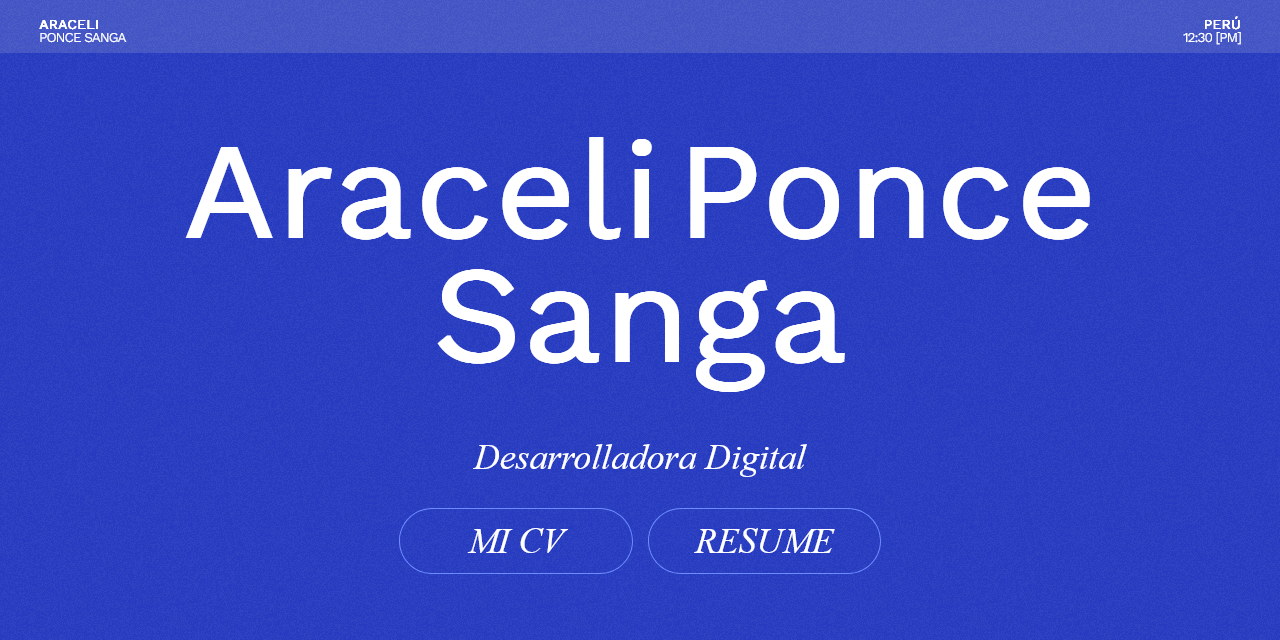
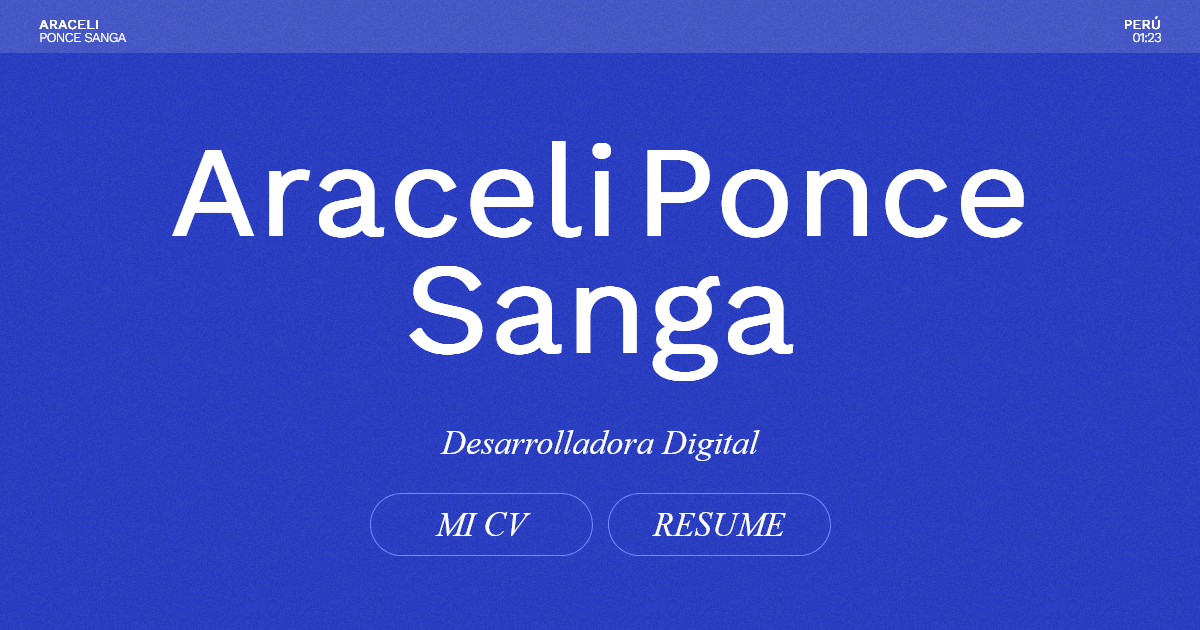
og image is now 1200 x 360

diff --git a/js/nuevo.min.js b/js/nuevo.min.js
@@ -1,1 +1,1 @@
-import{createClient}from"https://cdn.jsdelivr.net/npm/@supabase/supabase-js/+esm";const supabaseUrl="https://lqznaoovmqsfipptlktu.supabase.co",supabaseKey="eyJhbGciOiJIUzI1NiIsInR5cCI6IkpXVCJ9.eyJpc3MiOiJzdXBhYmFzZSIsInJlZiI6Imxxem5hb292bXFzZmlwcHRsa3R1Iiwicm9sZSI6ImFub24iLCJpYXQiOjE2ODkwMTQzMzksImV4cCI6MjAwNDU5MDMzOX0.CXn7Be_747VSWkg6JQ0LLm6AmQeCmSqRxrSRNatfoL0",supabase=createClient(supabaseUrl,supabaseKey),form=document.getElementById("messageForm"),nombreInput=document.getElementById("nombre"),mensajeInput=document.getElementById("mensaje"),contenedor=document.getElementById("contenedorMensajes");function updateTime(){const limaTime=getLimaTime(),timeElement=document.getElementById("time"),hours=formatTimePart(limaTime.getUTCHours()-5),minutes=formatTimePart(limaTime.getUTCMinutes()),ampm=limaTime.getUTCHours()>=12?"[PM]":"[AM]",formattedTime=hours+":"+minutes+" "+ampm;timeElement.textContent=formattedTime}function getLimaTime(){return new Date}function formatTimePart(part){return(part<10?"0":"")+part}function scrollTrigger(selector,options={}){let els=document.querySelectorAll(selector);els=Array.from(els),els.forEach(el=>{addObserver(el,options)})}function addObserver(el,options){if(!("IntersectionObserver"in window))return void(options.cb?options.cb(el):entry.target.classList.add("active"));let observer;new IntersectionObserver((entries,observer)=>{entries.forEach(entry=>{if(entry.isIntersecting){if(options.cb)options.cb(el);else{entry.target.classList.add("active");const aaa=entry.target.getAttribute("aria-expanded");aaa&&console.log({aaa:aaa})}observer.unobserve(entry.target)}})},options).observe(el)}document.addEventListener("DOMContentLoaded",()=>{updateTime(),setInterval(updateTime,6e4);const mainElement=document.querySelector("main"),images=mainElement.querySelectorAll("img");images.forEach(image=>{const anchor=document.createElement("a");anchor.href=image.src;const clonedImage=image.cloneNode(!0);anchor.appendChild(clonedImage),image.parentNode.replaceChild(anchor,image)})}),document.addEventListener("DOMContentLoaded",(function(){window.jsSlider=[];let allSliders=document.querySelectorAll(".slider-js");for(let index=0,len=allSliders.length;index<len;index++){let slider=allSliders[index],progress=slider.querySelector(".progress");function updateClasses(instance,slider){let slide=instance.details().relativeSlide,arrowLeft=slider.querySelector(".arrow-left"),arrowRight=slider.querySelector(".arrow-right");arrowRight&&(0===slide?arrowLeft.classList.add("arrow--disabled"):arrowLeft.classList.remove("arrow--disabled")),arrowLeft&&(slide===instance.details().size-1?arrowRight.classList.add("arrow--disabled"):arrowRight.classList.remove("arrow--disabled"));let dots=slider.querySelectorAll(".dot");dots&&dots.forEach((function(dot,idx){idx===slide?dot.classList.add("dot--active"):dot.classList.remove("dot--active")}))}let sliderInterval=0;function autoplay(mainSlider,run){clearInterval(sliderInterval),sliderInterval=setInterval(()=>{run&&mainSlider&&mainSlider.next()},5e3)}let extraData={created:function(instance){slider.querySelector(".arrow-left")&&slider.querySelector(".arrow-left").addEventListener("click",(function(){instance.prev(),progress&&(progress.classList.remove("active"),setTimeout(()=>{progress.classList.add("active")},50))})),slider.querySelector(".arrow-right")&&slider.querySelector(".arrow-right").addEventListener("click",(function(){instance.next(),progress&&(progress.classList.remove("active"),setTimeout(()=>{progress.classList.add("active")},50))}));let dots_wrapper=slider.querySelector(".dots");if(dots_wrapper){let slides;slider.querySelectorAll(".keen-slider__slide").forEach((function(t,idx){let dot=document.createElement("button");dot.classList.add("dot"),dots_wrapper.appendChild(dot),dot.addEventListener("click",(function(){instance.moveToSlide(idx)}))}))}updateClasses(instance,slider)},slideChanged(instance){if(updateClasses(instance,slider),slider.dataset.slider){let dataSlider=JSON.parse(slider.dataset.slider);if(dataSlider=dataSlider,dataSlider.navFor){let slide=instance.details().relativeSlide,size=instance.details().size;window.jsSlider[dataSlider.navFor]&&window.jsSlider[dataSlider.navFor].moveToSlide(slide)}}}};if(slider.dataset.slider){let dataSlider=JSON.parse(slider.dataset.slider);dataSlider=dataSlider,dataSlider={...dataSlider,...extraData},dataSlider.progress&&progress&&progress.classList.add("active");let autoPlayData={dragStart:e=>{autoplay(mainSlider,!1)},dragEnd:e=>{autoplay(mainSlider,!0)}};dataSlider.autoplay&&(dataSlider={...dataSlider,...autoPlayData});let selectSlider=slider.querySelector(".keen-slider"),mainSlider=new KeenSlider(selectSlider,dataSlider);dataSlider.autoplay&&autoplay(mainSlider,!0),dataSlider.id&&(console.log("id: ",dataSlider.id),window.jsSlider[dataSlider.id]=mainSlider)}else console.log("Please add the data-slider values")}function handleResize(){for(let index=0,len=allSliders.length;index<len;index++){let slider=allSliders[index],dataSlider=JSON.parse(slider.dataset.slider);window.innerWidth>1e3?dataSlider.slidesPerView=2.5:dataSlider.slidesPerView=1.5,window.jsSlider[dataSlider.id]&&window.jsSlider[dataSlider.id].destroy();let selectSlider=slider.querySelector(".keen-slider"),mainSlider=new KeenSlider(selectSlider,dataSlider);window.jsSlider[dataSlider.id]=mainSlider}}})),scrollTrigger(".intro-text"),scrollTrigger(".scroll-reveal",{rootMargin:"-200px"});const buttons=document.querySelectorAll("[aria-expanded]");function toggleExpand(){const button=event.target,ariaExpanded="true"===button.getAttribute("aria-expanded"),targetId=button.getAttribute("aria-controls"),targetElement=document.getElementById(targetId);if(ariaExpanded)targetElement.setAttribute("hidden",""),button.setAttribute("aria-expanded","false");else{targetElement.removeAttribute("hidden"),button.setAttribute("aria-expanded","true");const parentElement=targetElement.parentElement;console.log({parentElement:parentElement});const viewportHeight=window.innerHeight,parentOffset=parentElement.offsetTop,parentHeight=parentElement.offsetHeight,scrollPosition=parentOffset+parentHeight/2-viewportHeight/2;window.scrollTo({top:scrollPosition,behavior:"smooth"})}}buttons.forEach(button=>{button.addEventListener("click",toggleExpand)});const pushesBox=document.getElementById("pushesBox"),showMoreBtn=document.getElementById("showMoreBtn"),more=document.getElementById("more");let numberOfPushes=5;const username="araceliponce";let accessToken="";function fetchPushes(username,accessToken){let url,headers={};""!==accessToken&&(headers={Authorization:`token ${accessToken}`}),fetch(`https://api.github.com/users/${username}/events`,{headers:headers}).then(response=>response.json()).then(data=>{if(Array.isArray(data)){const pushEvents=data.filter(event=>"PushEvent"===event.type),pushes=pushEvents.map(event=>{const isPublic=event.public;return{repo:event.repo.name,message:event.payload.commits[0].message,date:event.created_at,public:isPublic}});renderPushes(pushes)}else console.error("Invalid API response format.")}).catch(error=>{console.error("Error:",error)})}function renderPushes(pushes){pushesBox.innerHTML="",pushes.slice(0,numberOfPushes).forEach(push=>{const fecha=new Date(push.date),opcionesFecha={year:"numeric",month:"long",day:"numeric",hour:"numeric",minute:"numeric",second:"numeric"},fechaFormateada=fecha.toLocaleDateString("es-ES",opcionesFecha),li=document.createElement("span");li.textContent=`Repositorio: ${push.repo} - Mensaje: ${push.message} - Fecha: ${fechaFormateada}`,pushesBox.appendChild(li)})}showMoreBtn.addEventListener("click",()=>{fetchPushes(username,accessToken),more.removeAttribute("hidden"),fetchSPData(),pushesBox.scrollIntoView({behavior:"smooth",block:"start"})});let lastFetchedTimestamp=null;async function fetchSPData(){try{const query=supabase.from("posts").select("*").order("created_at",{ascending:!0});lastFetchedTimestamp&&query.gt("created_at",lastFetchedTimestamp);const{data:data,error:error}=await query;error?console.error("Error fetching posts:",error):data.forEach(item=>{const createdAt=new Date(item.created_at),day=createdAt.toLocaleString("es",{day:"numeric"}),month=createdAt.toLocaleString("es",{month:"long"}),year=createdAt.toLocaleString("es",{year:"numeric"}),time=createdAt.toLocaleString("es",{hour:"numeric",minute:"numeric",hour12:!0}),formattedDate=`el ${day} de ${month} de ${year}, a las ${time}`,messageElement=document.createElement("div");messageElement.classList.add("msg");const nameElement=document.createElement("span");nameElement.classList.add("name"),nameElement.textContent=item.nombre+", ";const dateElement=document.createElement("span");dateElement.classList.add("date"),dateElement.textContent=formattedDate;const contentElement=document.createElement("div");contentElement.classList.add("text"),contentElement.textContent=item.mensaje,messageElement.appendChild(nameElement),messageElement.appendChild(dateElement),messageElement.appendChild(contentElement),contenedor.appendChild(messageElement),(!lastFetchedTimestamp||item.created_at>lastFetchedTimestamp)&&(lastFetchedTimestamp=item.created_at)})}catch(error){console.error("Error:",error)}}form.addEventListener("submit",async e=>{e.preventDefault();const nombre=nombreInput.value,mensaje=mensajeInput.value,{data:data,error:error}=await supabase.from("posts").insert([{nombre:nombre,mensaje:mensaje}]);error||(nombreInput.value="",mensajeInput.value="",await fetchSPData())});const images=document.querySelectorAll("img");images.forEach(image=>{const button=document.createElement("button");button.classList.add("open-modal"),button.textContent="ver",button.addEventListener("click",(function(){const src=image.getAttribute("src"),modalImage=document.querySelector(".modal img");modalImage.src=src})),image.insertAdjacentElement("afterend",button)});const modal={callOpen:()=>{modal.opener=document.activeElement,openModal()},callClose:()=>{closeModal(modal.opener)},handleOverlayClick:event=>{"overlay"===event.target.className&&closeModal(modal.opener)}};function openModal(){setVisibile(!0),setFocus(),setInertBehindModal(!0)}function closeModal(opener){setVisibile(!1),setInertBehindModal(!1),opener.focus()}function attachEventListener(openButtons,closeButtons,overlay){openButtons.forEach(b=>{b.addEventListener("click",modal.callOpen)}),closeButtons.forEach(b=>{b.addEventListener("click",modal.callClose)}),overlay.addEventListener("click",modal.handleOverlayClick),window.addEventListener("keydown",clallIfEscPress)}function setVisibile(visible){const display=visible?"block":"none";document.querySelector(".overlay").style.display=display}function setFocus(){document.querySelector(".modal").focus()}function setInertBehindModal(inert){const element=document.querySelector("main");element.inert=inert,element.setAttribute("aria-hidden",inert)}function clallIfEscPress(event){"Escape"===event.key&&modal.callClose()}const openButtons=document.querySelectorAll(".open-modal"),closeButtons=document.querySelectorAll(".close-modal"),overlay=document.querySelector(".overlay");attachEventListener(openButtons,closeButtons,overlay);
+import{createClient}from"https://cdn.jsdelivr.net/npm/@supabase/supabase-js/+esm";const supabaseUrl="https://lqznaoovmqsfipptlktu.supabase.co",supabaseKey="eyJhbGciOiJIUzI1NiIsInR5cCI6IkpXVCJ9.eyJpc3MiOiJzdXBhYmFzZSIsInJlZiI6Imxxem5hb292bXFzZmlwcHRsa3R1Iiwicm9sZSI6ImFub24iLCJpYXQiOjE2ODkwMTQzMzksImV4cCI6MjAwNDU5MDMzOX0.CXn7Be_747VSWkg6JQ0LLm6AmQeCmSqRxrSRNatfoL0",supabase=createClient(supabaseUrl,supabaseKey),form=document.getElementById("messageForm"),nombreInput=document.getElementById("nombre"),mensajeInput=document.getElementById("mensaje"),contenedor=document.getElementById("contenedorMensajes");function updateTime(){const limaTime=getLimaTime(),timeElement=document.getElementById("time"),hours=formatTimePart(limaTime.getUTCHours()-5),minutes=formatTimePart(limaTime.getUTCMinutes()),formattedTime=hours+":"+minutes;timeElement.textContent=formattedTime}function getLimaTime(){return new Date}function formatTimePart(part){return(part<10?"0":"")+part}function scrollTrigger(selector,options={}){let els=document.querySelectorAll(selector);els=Array.from(els),els.forEach(el=>{addObserver(el,options)})}function addObserver(el,options){if(!("IntersectionObserver"in window))return void(options.cb?options.cb(el):entry.target.classList.add("active"));let observer;new IntersectionObserver((entries,observer)=>{entries.forEach(entry=>{if(entry.isIntersecting){if(options.cb)options.cb(el);else{entry.target.classList.add("active");const aaa=entry.target.getAttribute("aria-expanded");aaa&&console.log({aaa:aaa})}observer.unobserve(entry.target)}})},options).observe(el)}document.addEventListener("DOMContentLoaded",()=>{updateTime(),setInterval(updateTime,6e4);const mainElement=document.querySelector("main"),images=mainElement.querySelectorAll("img");images.forEach(image=>{const anchor=document.createElement("a");anchor.href=image.src;const clonedImage=image.cloneNode(!0);anchor.appendChild(clonedImage),image.parentNode.replaceChild(anchor,image)})}),document.addEventListener("DOMContentLoaded",(function(){window.jsSlider=[];let allSliders=document.querySelectorAll(".slider-js");for(let index=0,len=allSliders.length;index<len;index++){let slider=allSliders[index],progress=slider.querySelector(".progress");function updateClasses(instance,slider){let slide=instance.details().relativeSlide,arrowLeft=slider.querySelector(".arrow-left"),arrowRight=slider.querySelector(".arrow-right");arrowRight&&(0===slide?arrowLeft.classList.add("arrow--disabled"):arrowLeft.classList.remove("arrow--disabled")),arrowLeft&&(slide===instance.details().size-1?arrowRight.classList.add("arrow--disabled"):arrowRight.classList.remove("arrow--disabled"));let dots=slider.querySelectorAll(".dot");dots&&dots.forEach((function(dot,idx){idx===slide?dot.classList.add("dot--active"):dot.classList.remove("dot--active")}))}let sliderInterval=0;function autoplay(mainSlider,run){clearInterval(sliderInterval),sliderInterval=setInterval(()=>{run&&mainSlider&&mainSlider.next()},5e3)}let extraData={created:function(instance){slider.querySelector(".arrow-left")&&slider.querySelector(".arrow-left").addEventListener("click",(function(){instance.prev(),progress&&(progress.classList.remove("active"),setTimeout(()=>{progress.classList.add("active")},50))})),slider.querySelector(".arrow-right")&&slider.querySelector(".arrow-right").addEventListener("click",(function(){instance.next(),progress&&(progress.classList.remove("active"),setTimeout(()=>{progress.classList.add("active")},50))}));let dots_wrapper=slider.querySelector(".dots");if(dots_wrapper){let slides;slider.querySelectorAll(".keen-slider__slide").forEach((function(t,idx){let dot=document.createElement("button");dot.classList.add("dot"),dots_wrapper.appendChild(dot),dot.addEventListener("click",(function(){instance.moveToSlide(idx)}))}))}updateClasses(instance,slider)},slideChanged(instance){if(updateClasses(instance,slider),slider.dataset.slider){let dataSlider=JSON.parse(slider.dataset.slider);if(dataSlider=dataSlider,dataSlider.navFor){let slide=instance.details().relativeSlide,size=instance.details().size;window.jsSlider[dataSlider.navFor]&&window.jsSlider[dataSlider.navFor].moveToSlide(slide)}}}};if(slider.dataset.slider){let dataSlider=JSON.parse(slider.dataset.slider);dataSlider=dataSlider,dataSlider={...dataSlider,...extraData},dataSlider.progress&&progress&&progress.classList.add("active");let autoPlayData={dragStart:e=>{autoplay(mainSlider,!1)},dragEnd:e=>{autoplay(mainSlider,!0)}};dataSlider.autoplay&&(dataSlider={...dataSlider,...autoPlayData});let selectSlider=slider.querySelector(".keen-slider"),mainSlider=new KeenSlider(selectSlider,dataSlider);dataSlider.autoplay&&autoplay(mainSlider,!0),dataSlider.id&&(console.log("id: ",dataSlider.id),window.jsSlider[dataSlider.id]=mainSlider)}else console.log("Please add the data-slider values")}function handleResize(){for(let index=0,len=allSliders.length;index<len;index++){let slider=allSliders[index],dataSlider=JSON.parse(slider.dataset.slider);window.innerWidth>1e3?dataSlider.slidesPerView=2.5:dataSlider.slidesPerView=1.5,window.jsSlider[dataSlider.id]&&window.jsSlider[dataSlider.id].destroy();let selectSlider=slider.querySelector(".keen-slider"),mainSlider=new KeenSlider(selectSlider,dataSlider);window.jsSlider[dataSlider.id]=mainSlider}}})),scrollTrigger(".intro-text"),scrollTrigger(".scroll-reveal",{rootMargin:"-200px"});const buttons=document.querySelectorAll("[aria-expanded]");function toggleExpand(){const button=event.target,ariaExpanded="true"===button.getAttribute("aria-expanded"),targetId=button.getAttribute("aria-controls"),targetElement=document.getElementById(targetId);if(ariaExpanded)targetElement.setAttribute("hidden",""),button.setAttribute("aria-expanded","false");else{targetElement.removeAttribute("hidden"),button.setAttribute("aria-expanded","true");const parentElement=targetElement.parentElement;console.log({parentElement:parentElement});const viewportHeight=window.innerHeight,parentOffset=parentElement.offsetTop,parentHeight=parentElement.offsetHeight,scrollPosition=parentOffset+parentHeight/2-viewportHeight/2;window.scrollTo({top:scrollPosition,behavior:"smooth"})}}buttons.forEach(button=>{button.addEventListener("click",toggleExpand)});const pushesBox=document.getElementById("pushesBox"),showMoreBtn=document.getElementById("showMoreBtn"),more=document.getElementById("more");let numberOfPushes=5;const username="araceliponce";let accessToken="";function fetchPushes(username,accessToken){let url,headers={};""!==accessToken&&(headers={Authorization:`token ${accessToken}`}),fetch(`https://api.github.com/users/${username}/events`,{headers:headers}).then(response=>response.json()).then(data=>{if(Array.isArray(data)){const pushEvents=data.filter(event=>"PushEvent"===event.type),pushes=pushEvents.map(event=>{const isPublic=event.public;return{repo:event.repo.name,message:event.payload.commits[0].message,date:event.created_at,public:isPublic}});renderPushes(pushes)}else console.error("Invalid API response format.")}).catch(error=>{console.error("Error:",error)})}function renderPushes(pushes){pushesBox.innerHTML="",pushes.slice(0,numberOfPushes).forEach(push=>{const fecha=new Date(push.date),opcionesFecha={year:"numeric",month:"long",day:"numeric",hour:"numeric",minute:"numeric",second:"numeric"},fechaFormateada=fecha.toLocaleDateString("es-ES",opcionesFecha),li=document.createElement("span");li.textContent=`Repositorio: ${push.repo} - Mensaje: ${push.message} - Fecha: ${fechaFormateada}`,pushesBox.appendChild(li)})}showMoreBtn.addEventListener("click",()=>{fetchPushes(username,accessToken),more.removeAttribute("hidden"),fetchSPData(),pushesBox.scrollIntoView({behavior:"smooth",block:"start"})});let lastFetchedTimestamp=null;async function fetchSPData(){try{const query=supabase.from("posts").select("*").order("created_at",{ascending:!0});lastFetchedTimestamp&&query.gt("created_at",lastFetchedTimestamp);const{data:data,error:error}=await query;error?console.error("Error fetching posts:",error):data.forEach(item=>{const createdAt=new Date(item.created_at),day=createdAt.toLocaleString("es",{day:"numeric"}),month=createdAt.toLocaleString("es",{month:"long"}),year=createdAt.toLocaleString("es",{year:"numeric"}),time=createdAt.toLocaleString("es",{hour:"numeric",minute:"numeric",hour12:!0}),formattedDate=`el ${day} de ${month} de ${year}, a las ${time}`,messageElement=document.createElement("div");messageElement.classList.add("msg");const nameElement=document.createElement("span");nameElement.classList.add("name"),nameElement.textContent=item.nombre+", ";const dateElement=document.createElement("span");dateElement.classList.add("date"),dateElement.textContent=formattedDate;const contentElement=document.createElement("div");contentElement.classList.add("text"),contentElement.textContent=item.mensaje,messageElement.appendChild(nameElement),messageElement.appendChild(dateElement),messageElement.appendChild(contentElement),contenedor.appendChild(messageElement),(!lastFetchedTimestamp||item.created_at>lastFetchedTimestamp)&&(lastFetchedTimestamp=item.created_at)})}catch(error){console.error("Error:",error)}}form.addEventListener("submit",async e=>{e.preventDefault();const nombre=nombreInput.value,mensaje=mensajeInput.value,{data:data,error:error}=await supabase.from("posts").insert([{nombre:nombre,mensaje:mensaje}]);error||(nombreInput.value="",mensajeInput.value="",await fetchSPData())});const images=document.querySelectorAll("img");images.forEach(image=>{const button=document.createElement("button");button.classList.add("open-modal"),button.textContent="ver",button.addEventListener("click",(function(){const src=image.getAttribute("src"),modalImage=document.querySelector(".modal img");modalImage.src=src})),image.insertAdjacentElement("afterend",button)});const modal={callOpen:()=>{modal.opener=document.activeElement,openModal()},callClose:()=>{closeModal(modal.opener)},handleOverlayClick:event=>{"overlay"===event.target.className&&closeModal(modal.opener)}};function openModal(){setVisibile(!0),setFocus(),setInertBehindModal(!0)}function closeModal(opener){setVisibile(!1),setInertBehindModal(!1),opener.focus()}function attachEventListener(openButtons,closeButtons,overlay){openButtons.forEach(b=>{b.addEventListener("click",modal.callOpen)}),closeButtons.forEach(b=>{b.addEventListener("click",modal.callClose)}),overlay.addEventListener("click",modal.handleOverlayClick),window.addEventListener("keydown",clallIfEscPress)}function setVisibile(visible){const display=visible?"block":"none";document.querySelector(".overlay").style.display=display}function setFocus(){document.querySelector(".modal").focus()}function setInertBehindModal(inert){const element=document.querySelector("main");element.inert=inert,element.setAttribute("aria-hidden",inert)}function clallIfEscPress(event){"Escape"===event.key&&modal.callClose()}const openButtons=document.querySelectorAll(".open-modal"),closeButtons=document.querySelectorAll(".close-modal"),overlay=document.querySelector(".overlay");attachEventListener(openButtons,closeButtons,overlay);

diff --git a/index.html b/index.html
@@ -1,5 +1,5 @@
 <!DOCTYPE html>
-<html lang="en">
+<html lang="es">
 
 <head>
   <meta charset="UTF-8">
